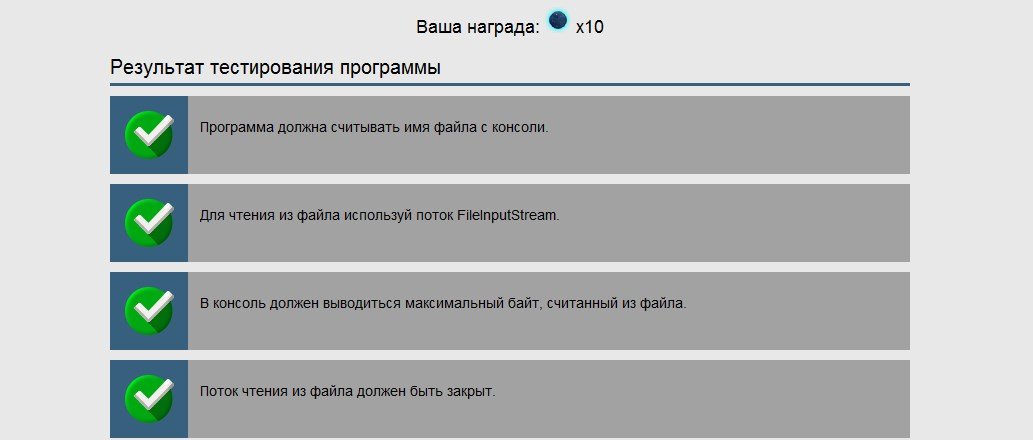
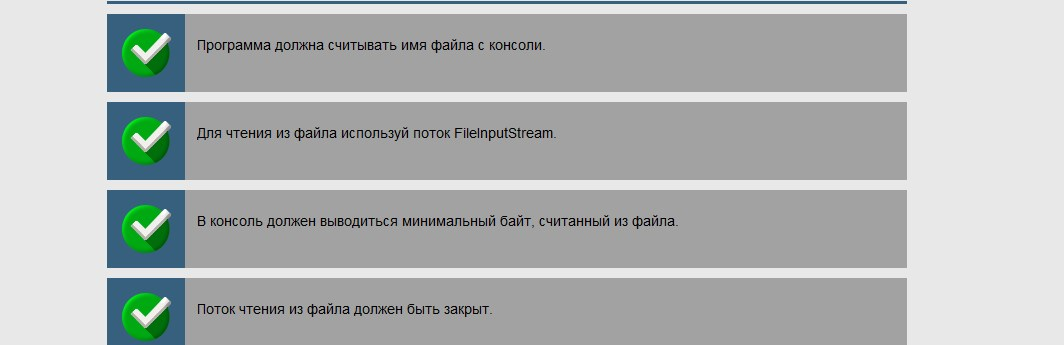
Минимальный байт
task.task18.task1802;

diff --git a/JavaRushTasks/JavaRushTasks/2.JavaCore/src/com/javarush/task/task18/task1802/Solution.java b/JavaRushTasks/JavaRushTasks/2.JavaCore/src/com/javarush/task/task18/task1802/Solution.java
@@ -1,0 +1,19 @@
+package com.javarush.task.task18.task1802;
+
+import java.io.BufferedReader;
+import java.io.FileInputStream;
+import java.io.InputStreamReader;
+
+/* 
+Минимальный байт
+Ввести с консоли имя файла.
+Найти минимальный байт в файле, вывести его на экран.
+Закрыть поток ввода-вывода.
+*/
+
+public class Solution {
+    public static void main(String[] args) throws Exception {
+        
+
+    }
+}
